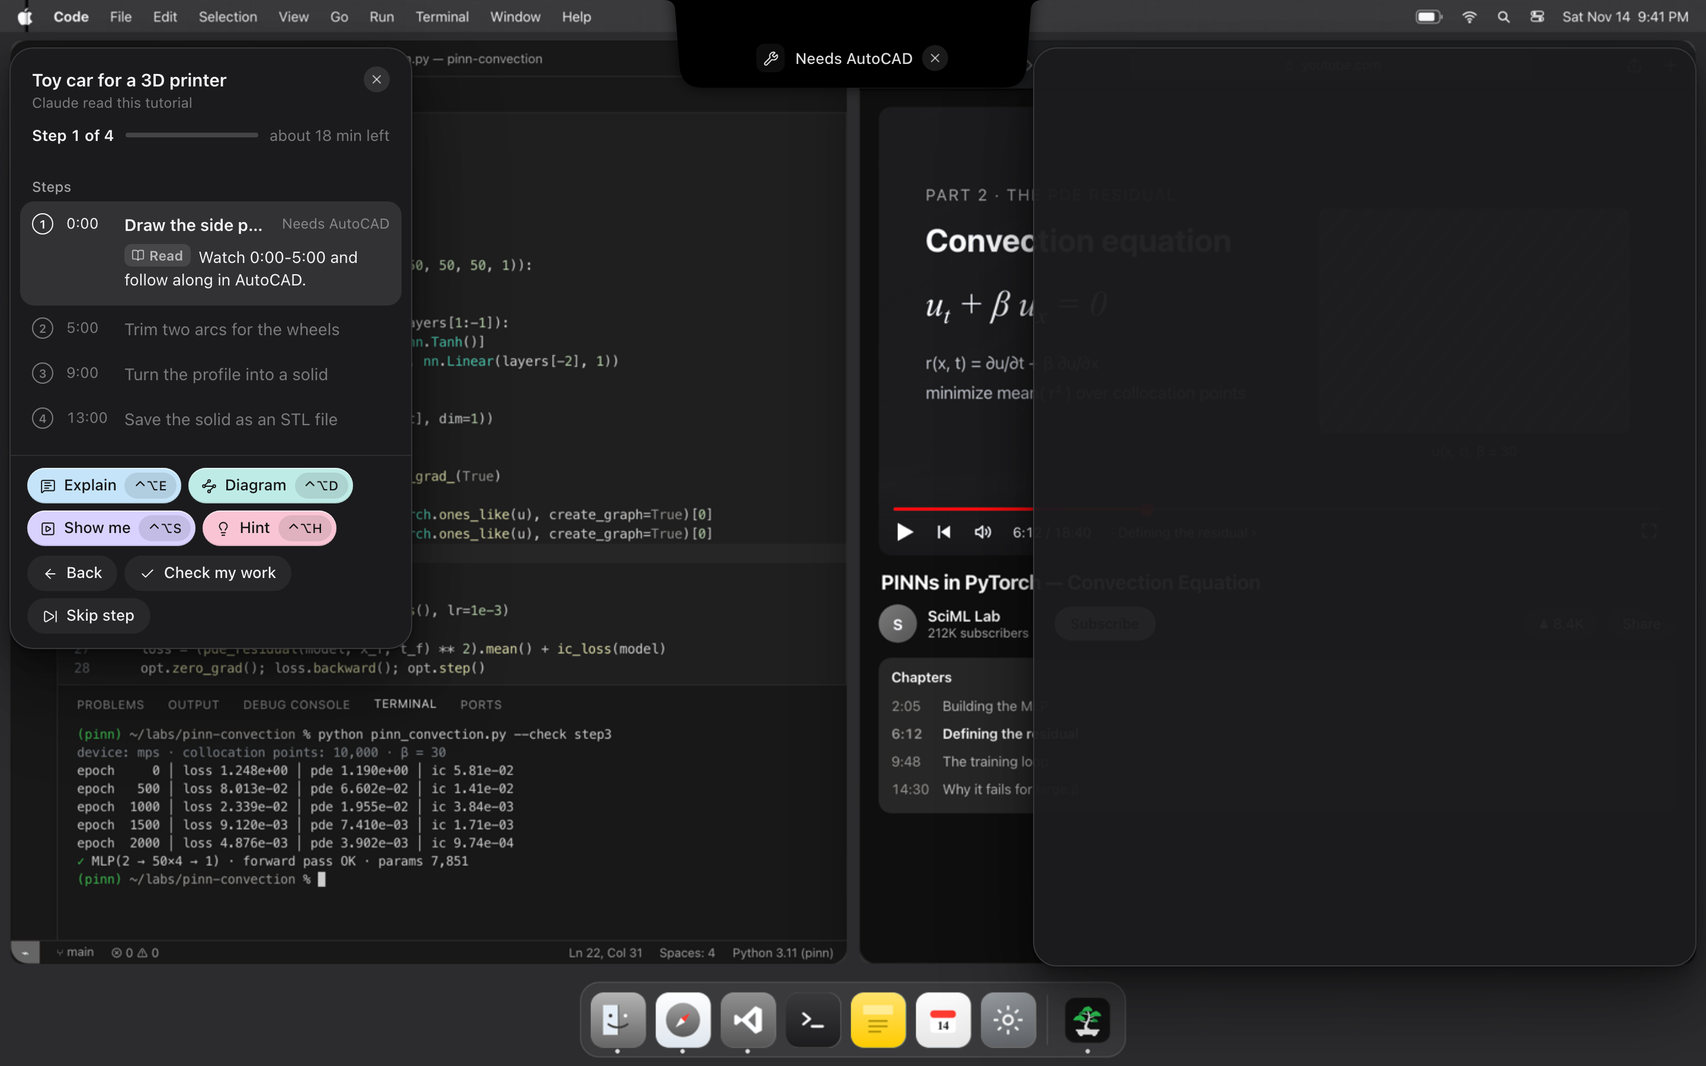
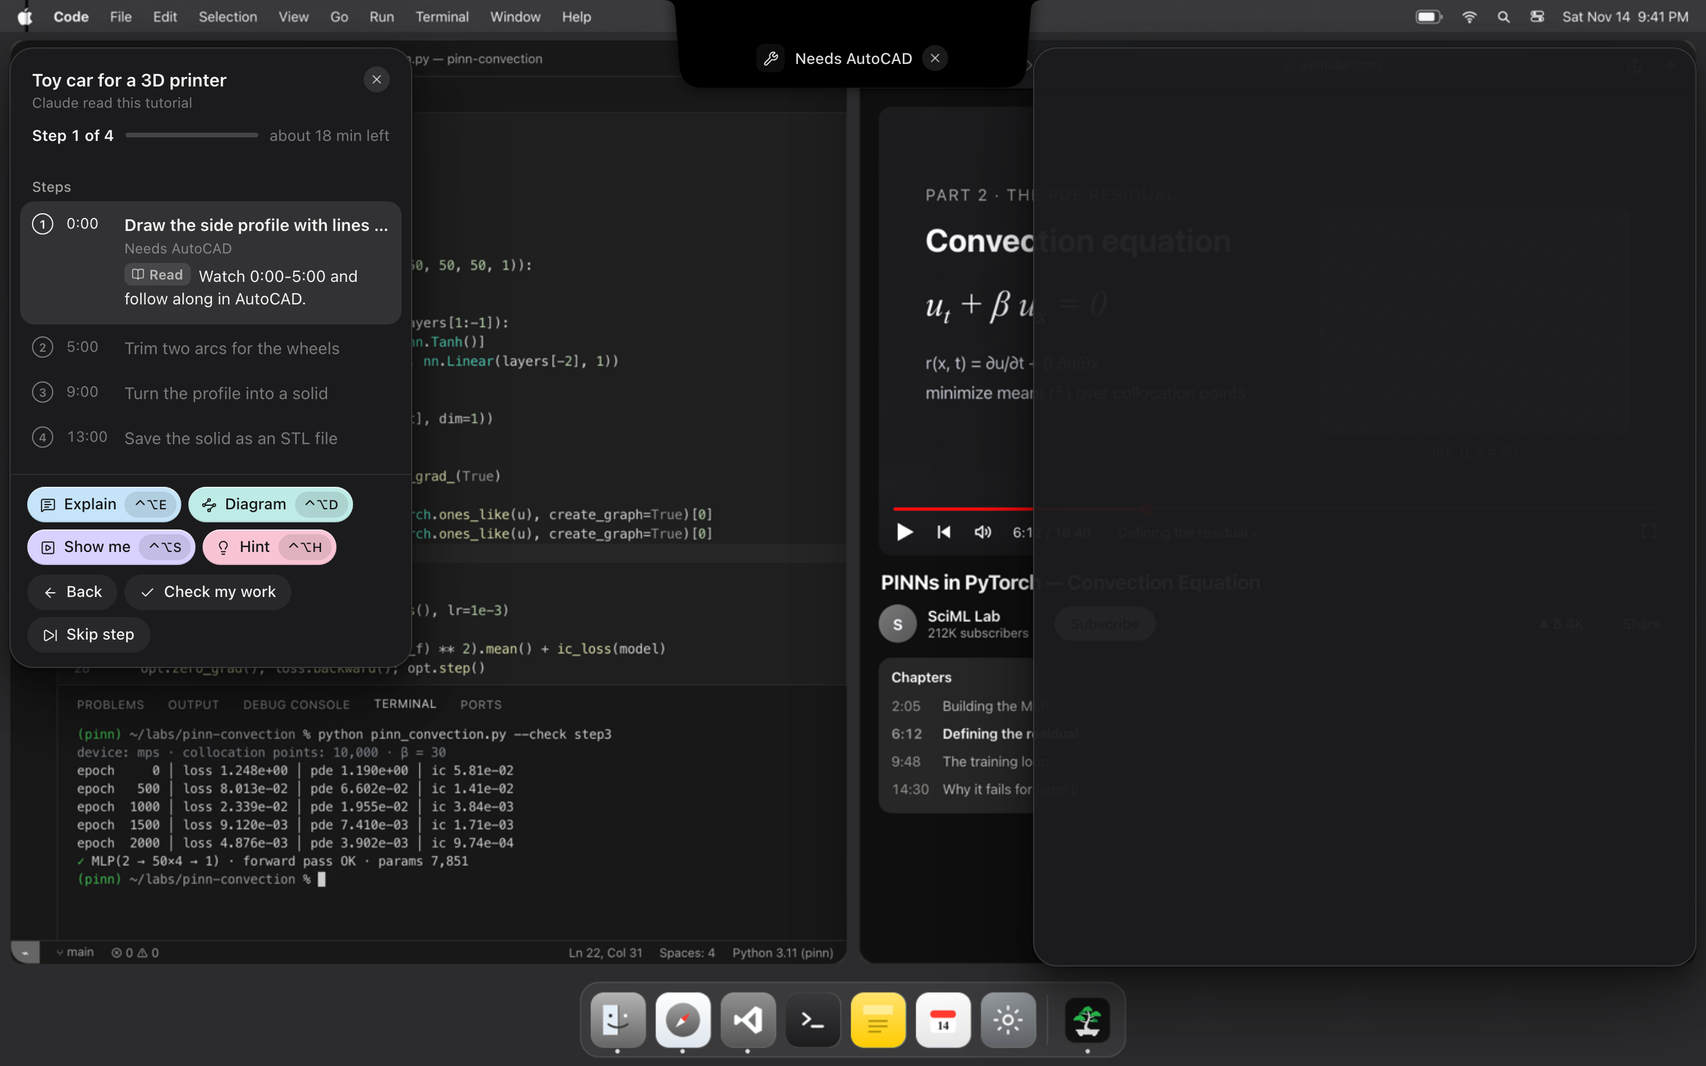
app: setup card draws Get AutoCAD / Try FreeCAD / I have it from the row's own actions (fix round 1)
On today's engine (integration/live, APP_RENDERS_APP_ACTIONS False) card.actions is only [install, skip_setup], so
the plan fell back to a link: the white "Get AutoCAD" went to main's open:external, whose setup list has no
autodesk.com, and the first click opened nothing ("Copy link"). The AutoCAD row itself already sends
[have_it, get_it, alternative, skip] and the engine handles all three (setup_apps.act; get_it opens the vendor page on
the engine's own allowlist).

- setupPlan: a paid app's buttons read the card's actions or the licensed row's own; Get AutoCAD (white), Try FreeCAD
  and I have it (quiet) are engine actions. The link path stays only for a row with no actions (older engines).
  Choosing FreeCAD owns its offered row; once picked, its Install leads.
- setupHold.drawnOnCard reads the row's actions too, so the row draws no second Get.
- mock setup-calm-today matches apps.item_actions (autocad [have_it, get_it, alternative, skip], FreeCAD
  [install, have_it, skip]); tests updated, plus one that runs every plan link through isSetupDownloadUrl.
- drawer: "Needs AutoCAD" moves to its own quiet line under the current step, so the title is no longer cut for it.
- Player: the StagePlayer doc comment is back above StagePlayer.
- cards.md: engine requests E1-E3 (flip APP_RENDERS_APP_ACTIONS and APP_HONOURS_HOLD_VIDEO with this branch and
  #252); right-drawer placement (core request 7) still open.
- shots/setup-calm-*.png retaken headless (player=frame, no video).

Changed region(s): [[0.0, 0.1867, 0.2188, 0.6222], [0.1875, 0.6222, 0.2188, 0.6533]]

diff --git a/app/test/setupCalm.test.ts b/app/test/setupCalm.test.ts
@@ -10,7 +10,8 @@ import { join } from 'node:path'
 import { test } from 'node:test'
 import type { Payload } from '../src/common/wire'
 import { needsLine, planSetup, setupBody, setupCardWidth, toolKind, SETUP_MIN_W } from '../src/renderer/src/features/cards/setupPlan'
-import { setupWaiting, waitingOnSetup } from '../src/renderer/src/features/cards/setupHold'
+import { drawnOnCard, setupWaiting, waitingOnSetup } from '../src/renderer/src/features/cards/setupHold'
+import { isSetupDownloadUrl } from '../src/main/safeOpen'
 
 type Card = Payload<'card'>
 
@@ -47,18 +48,52 @@ test('no Mac version: the free alternative leads, Get is not offered', () => {
   assert.deepEqual(planSetup(win).secondary, [])
 })
 
-test("today's engine: Get AutoCAD opens the vendor page from main's list, Install FreeCAD sits beside it", () => {
+test("today's engine: the AutoCAD row's own actions draw Get AutoCAD, Try FreeCAD and I have it", () => {
+  // integration/live with APP_RENDERS_APP_ACTIONS False: card.actions is [install, skip_setup], the row still offers
+  // [have_it, get_it, alternative, skip] (server/workspace/apps.py item_actions) and the engine handles all three.
   const c = fixture('setup-calm-today')
+  assert.deepEqual(c.actions, ['install', 'skip_setup'])
   const p = planSetup(c)
+  assert.deepEqual(p.primary, { do: 'card', action: 'get_it', tool: 'autocad', label: 'Get AutoCAD' })
+  assert.deepEqual(p.secondary, [
+    { do: 'card', action: 'alternative', tool: 'autocad', label: 'Try FreeCAD' },
+    { do: 'card', action: 'have_it', tool: 'autocad', label: 'I have it' }
+  ])
+  // the AutoCAD row draws no second Get, FreeCAD's offered row no second Install
+  assert.deepEqual(p.owns.sort(), ['autocad', 'freecad'])
+  assert.equal(drawnOnCard(c.actions, c.setup!.items.find((x) => x.tool === 'autocad')!), true)
+  // FreeCAD is the other choice, not a second need
+  assert.equal(needsLine(c), 'Needs AutoCAD')
+  assert.equal(setupWaiting(c), false)
+  // once the learner picks FreeCAD (using), its row's Install leads
+  const picked: Card = { ...c, setup: { ...c.setup!, items: c.setup!.items.map((x) => (x.tool === 'autocad' ? { ...x, using: 'FreeCAD', actions: [] } : x)) } }
+  assert.deepEqual(planSetup(picked).primary, { do: 'install', tool: 'freecad', label: 'Install FreeCAD' })
+})
+
+// A smart-setup row always carries actions; a licensed row without them only comes from an engine older than both.
+// Main may refuse its page (Copy link then), which is still better than a card with nothing to press.
+test('an older engine row without actions still gets Get <app> as a link', () => {
+  const c = fixture('setup-calm-today')
+  const old: Card = { ...c, setup: { ...c.setup!, items: c.setup!.items.map(({ actions: _a, ...x }) => x) } }
+  const p = planSetup(old)
   assert.equal(p.primary?.do, 'link')
   assert.equal(p.primary?.label, 'Get AutoCAD')
   assert.deepEqual(p.secondary, [{ do: 'install', tool: 'freecad', label: 'Install FreeCAD' }])
-  assert.deepEqual(p.owns.sort(), ['autocad', 'freecad'])
-  // FreeCAD is the other choice, not a second need
-  assert.equal(needsLine(c), 'Needs AutoCAD')
-  // FreeCAD installing: its row says so, Get AutoCAD stays the primary
-  assert.deepEqual(planSetup(c, { freecad: { running: true } }).secondary, [])
-  assert.equal(setupWaiting(c), false)
+})
+
+test("every link a plan draws is one main's setup list opens (no primary main would refuse)", () => {
+  // Fix round 1: Get AutoCAD went to main's open:external, which has no autodesk.com: the first click opened nothing.
+  const states = [{}, { freecad: { running: true } }, { numpy: { ok: true } }]
+  for (const name of ['setup-calm', 'setup-calm-today', 'setup-calm-install', 'setup-calm-old']) {
+    const c = fixture(name)
+    for (const installs of states) {
+      const p = planSetup(c, installs)
+      for (const b of [p.primary, ...p.secondary]) {
+        if (b?.do !== 'link') continue
+        assert.equal(isSetupDownloadUrl(b.url), true, `${name}: ${b.label} -> ${b.url} is not on main's setup list`)
+      }
+    }
+  }
 })
 
 test("the old engine in Michael's screenshot: no editor talk, no Install now?, the video plays", () => {

diff --git a/app/src/renderer/src/features/cards/setupPlan.ts b/app/src/renderer/src/features/cards/setupPlan.ts
@@ -8,6 +8,8 @@
  *              Mac; the free alternative ("Try FreeCAD") is the quiet second button; Skip stays a quiet link
  *   web        a web app: "Open <app>"
  *   download   an older engine's download page: "Get <app>"
+ * A paid app's buttons are engine actions (have_it / get_it / alternative), read from the card's actions or the row's
+ * own, whichever the engine sent. Only a row with no actions at all (an older engine) falls back to a link.
  * The rest of the card (Download tutorial files, Open VS Code) keeps its own quiet buttons.
  *
  * Older engines: rows without setupKind / actions still work (a download row is "Get it", a pip row is "Install").
@@ -81,21 +83,31 @@ export function planSetup(c: Card, installs: Record<string, InstallState> = {}, 
   if (free.length === 1) return { primary: { do: 'install', tool: free[0].tool, label: `Install ${free[0].label}` }, secondary: [], owns: [free[0].tool] }
 
   // 2. A paid app: Get it (or I have it, when the scan saw it), the free alternative beside it.
+  // The engine handles have_it / get_it / alternative from either place: the card's actions (an engine with
+  // APP_RENDERS_APP_ACTIONS) or the row's own actions (today's engine: card.actions is only [install, skip_setup], the
+  // AutoCAD row still offers [have_it, get_it, alternative, skip]). get_it opens the vendor page on the engine's own
+  // allowlist; main's setup list has no vendor pages, so a link button there would open nothing.
   if (lic) {
     const owns = [lic.tool]
-    const drawn = actions.includes('get_it') || actions.includes('have_it')
-    const get: SetupBtn | undefined = drawn
-      ? actions.includes('get_it') ? { do: 'card', action: 'get_it', tool: lic.tool, label: labels.get_it ?? `Get ${lic.label}` } : undefined
-      : (lic.vendorUrl ?? lic.install.url) ? { do: 'link', tool: lic.tool, url: lic.install.url ?? lic.vendorUrl, label: `Get ${lic.label}` } : undefined
-    const have: SetupBtn | undefined = actions.includes('have_it') ? { do: 'card', action: 'have_it', tool: lic.tool, label: labels.have_it ?? 'I have it' } : undefined
+    const can = (a: 'have_it' | 'get_it' | 'alternative'): boolean => actions.includes(a) || !!lic.actions?.includes(a)
+    // An older engine (no actions on the row or the card): the row's download page through main's list.
+    const oldRow = lic.actions === undefined && !actions.includes('get_it') && !actions.includes('have_it')
+    const pageUrl = lic.install.url ?? lic.vendorUrl
+    const get: SetupBtn | undefined = can('get_it')
+      ? { do: 'card', action: 'get_it', tool: lic.tool, label: labels.get_it ?? `Get ${lic.label}` }
+      : oldRow && pageUrl
+        ? { do: 'link', tool: lic.tool, url: pageUrl, label: `Get ${lic.label}` }
+        : undefined
+    const have: SetupBtn | undefined = can('have_it') ? { do: 'card', action: 'have_it', tool: lic.tool, label: labels.have_it ?? 'I have it' } : undefined
+    const altRow = installable.find(isAlt)
     let alt: SetupBtn | undefined
-    if (lic.alternative && actions.includes('alternative')) alt = { do: 'card', action: 'alternative', tool: lic.tool, label: labels.alternative ?? `Try ${lic.alternative.name}` }
-    else {
-      const row = installable.find(isAlt)
-      if (row && !installs[row.tool]?.running) {
-        alt = { do: 'install', tool: row.tool, label: `Install ${row.label}` }
-        owns.push(row.tool)
-      }
+    if (lic.alternative && can('alternative')) {
+      // The engine switches the lesson to the alternative; its offered row (today's engine) then gets Install.
+      alt = { do: 'card', action: 'alternative', tool: lic.tool, label: labels.alternative ?? `Try ${lic.alternative.name}` }
+      if (altRow) owns.push(altRow.tool)
+    } else if (altRow && !installs[altRow.tool]?.running) {
+      alt = { do: 'install', tool: altRow.tool, label: `Install ${altRow.label}` }
+      owns.push(altRow.tool)
     }
     // No Mac version: getting it is no use here, the alternative leads.
     if (lic.noMac && alt) return { primary: alt, secondary: [], owns }

diff --git a/app/src/renderer/src/features/drawer/Drawer.tsx b/app/src/renderer/src/features/drawer/Drawer.tsx
@@ -617,7 +617,7 @@ function StepRow({
   instructions?: string
   /** The option row (Explain / Diagram / Show me / Hint + Check my work): the current step of a "Just teach me" lesson. */
   actions?: boolean
-  /** A quiet status at the row's end ("Needs AutoCAD"): faint, no hue. */
+  /** A quiet status under the step's title ("Needs AutoCAD"): faint, no hue. */
   note?: string
   enterDelay?: number
 }): ReactNode {
@@ -679,13 +679,21 @@ function StepRow({
         >
           {line ?? step.title}
         </span>
-        {/* Mockup 01: the current step's "about 4 min" at the row's end; a status note ("Needs AutoCAD") wins. */}
-        {(note || (current && estimate)) && (
-          <span data-part={note ? 'drawer-step-note' : 'drawer-step-est'} className="shrink-0 text-[12px]" style={{ color: glass.faint }}>
-            {note ?? estimate}
+        {/* Mockup 01: the current step's "about 4 min" at the row's end. A status note ("Needs AutoCAD") still wins:
+            it sits on its own line below and the title takes the whole row. */}
+        {current && estimate && !note && (
+          <span data-part="drawer-step-est" className="shrink-0 text-[12px]" style={{ color: glass.faint }}>
+            {estimate}
           </span>
         )}
       </button>
+      {/* A status note ("Needs AutoCAD") gets its own quiet line under the title, so the title is never cut for it
+          (fix round 1: "Draw the side p..." at 1440). */}
+      {note && (
+        <div data-part="drawer-step-note" className="truncate pb-[6px] text-[12px] leading-[16px]" style={{ paddingLeft: indent, paddingRight: ROW.padX, marginTop: -6, color: glass.faint }}>
+          {note}
+        </div>
+      )}
       {open && <StepDetail stepId={step.id} instructions={instructions} planKind={step.kind} indent={indent} padX={ROW.padX} />}
       {checks && checks.length > 0 && (
         <motion.div

diff --git a/app/src/renderer/src/features/cards/setupHold.ts b/app/src/renderer/src/features/cards/setupHold.ts
@@ -28,12 +28,16 @@ export const rowWaiting = (x: Row): boolean => x.needed && !x.ok && !x.haveIt &&
 /** A row the learner settled: "I have it" (haveIt) or a free alternative instead (using). */
 export const rowSettled = (x: Row): boolean => !!x.haveIt || !!x.using
 
+/** The paid-app actions the setup card draws itself (setupPlan.ts). */
+const APP_ACTIONS: readonly string[] = ['have_it', 'get_it', 'alternative']
+
 /**
- * A licensed app's row (AutoCAD) on a card that draws I have it / Get it / the free alternative itself: the row keeps
- * no button of its own (its install.method "download" would be a second Get it).
+ * A licensed app's row (AutoCAD) whose I have it / Get it / free alternative the card draws itself: the row keeps no
+ * button of its own (its install.method "download" would be a second Get it). The engine sends those actions on the
+ * card (APP_RENDERS_APP_ACTIONS) or only on the row (today's engine): either counts.
  */
 export const drawnOnCard = (actions: readonly string[] | undefined, x: Row): boolean =>
-  x.setupKind === 'licensed_app' && !!actions?.includes('get_it')
+  x.setupKind === 'licensed_app' && (!!actions?.includes('get_it') || !!x.actions?.some((a) => APP_ACTIONS.includes(a)))
 
 /** The drawer's current step reads "Waiting on setup": a setup card that holds the video and has a row still waiting. */
 export function waitingOnSetup(c: Card | undefined): boolean {

diff --git a/app/test/setupHold.test.ts b/app/test/setupHold.test.ts
@@ -78,8 +78,10 @@ test('a row the learner settled never waits: I have it, or FreeCAD instead', () 
 
 test('the licensed row keeps no Get it of its own when the card draws Get AutoCAD', () => {
   assert.equal(drawnOnCard(autocadCard().actions, autocad()), true)
-  // today's engine (flag off): actions install / skip_setup, the row's own Get it opens the vendor page
-  assert.equal(drawnOnCard(['install', 'skip_setup'], autocad()), false)
+  // today's engine (flag off): card actions install / skip_setup, but the row's own actions still draw on the card
+  assert.equal(drawnOnCard(['install', 'skip_setup'], autocad()), true)
+  // an older engine's row with no actions keeps its own button
+  assert.equal(drawnOnCard(['install', 'skip_setup'], autocad({ actions: undefined })), false)
   assert.equal(drawnOnCard(autocadCard().actions, vscode), false)
 })
 

diff --git a/app/src/renderer/src/features/player/Player.tsx b/app/src/renderer/src/features/player/Player.tsx
@@ -677,7 +677,6 @@ export function PlayerWindow(): ReactNode {
   return <PlayerPanel />
 }
 
-/** Browser stage only: the same panel at the dock rect, under the spotlight/cards like in Electron. */
 /**
  * Stage only, `?player=frame`: the panel's empty frame at the dock, no video. Screenshots of what sits beside the
  * player (the setup card, the drawer) without loading or playing anything.
@@ -694,6 +693,7 @@ function FrameOnly(): ReactNode {
   )
 }
 
+/** Browser stage only: the same panel at the dock rect, under the spotlight/cards like in Electron. */
 export function StagePlayer({ layout }: { layout: Layout }): ReactNode {
   // No player for a "Just teach me" lesson (lesson.mode "lesson": no video at all).
   const hasLesson = useLesson((s) => !!s.lesson && s.lesson.mode !== 'lesson')

diff --git a/app/agents/cards.md b/app/agents/cards.md
@@ -1,16 +1,20 @@
 # cards
 
 **Calm setup (Nov 22, `michael/app-setup-calm`, builds on #252 `michael/app-setup-actions`):** Michael's AutoCAD video lesson said "set up first" in three places (card, drawer, player), offered only Skip, and talked about an editor for a no-code lesson. Now:
-- **One place says "set up first": the setup card.** The drawer reads as usual, with a quiet "Needs AutoCAD" at the current step's end (`setupPlan.needsLine`; a paid app's free alternative is a choice, not a second need). The player plays; when a step truly holds it (`setup.holdVideo` true) its scrim says "Waiting for NumPy, pandas" / "It plays once that is ready.", never "Set up first". An older engine (no `holdVideo`) no longer holds for a card whose only button is Skip (`setupHold.setupWaiting`).
-- **One white primary by tool kind** (`features/cards/setupPlan.ts`, pure): packages = "Install NumPy" or "Install all"; a paid app = "Get AutoCAD" (engine `get_it`, or main's setup list for today's engine's download row), "I have it" leads only when the scan saw the app (`installed` true, `ok` false); the free alternative ("Try FreeCAD", or today's engine's "Install FreeCAD" row) and "I have it" are quiet buttons on their own line above; Skip stays a faint link; `noMac` = the alternative leads. Web app = "Open Figma". Older download rows = "Get <app>". The plan's buttons replace the rows' own; other missing rows keep their small grey button. No pastel, no hue for "not yet".
+- **One place says "set up first": the setup card.** The drawer reads as usual, with a quiet "Needs AutoCAD" line under the current step's title, so the title is never cut for it (`setupPlan.needsLine`; a paid app's free alternative is a choice, not a second need). The player plays; when a step truly holds it (`setup.holdVideo` true) its scrim says "Waiting for NumPy, pandas" / "It plays once that is ready.", never "Set up first". An older engine (no `holdVideo`) no longer holds for a card whose only button is Skip (`setupHold.setupWaiting`).
+- **One white primary by tool kind** (`features/cards/setupPlan.ts`, pure): packages = "Install NumPy" or "Install all"; a paid app = "Get AutoCAD" (engine `get_it`: the engine opens the vendor page on its own allowlist), "I have it" leads only when the scan saw the app (`installed` true, `ok` false); the free alternative ("Try FreeCAD", engine `alternative`) and "I have it" are quiet buttons on their own line above. The plan reads these actions from the card's `actions` or the licensed row's own `actions`, so today's engine (flags off, card actions only `[install, skip_setup]`, row actions `[have_it, get_it, alternative, skip]`) gets the same three buttons. Only a licensed row with no `actions` at all (an engine older than smart setup) falls back to a link through main's setup list (`install` of the alternative's own row beside it); main has no vendor pages on that list, so a plan link is test-checked against `isSetupDownloadUrl` (fix round 1: Get AutoCAD opened nothing); Skip stays a faint link; `noMac` = the alternative leads. Web app = "Open Figma". Older download rows = "Get <app>". The plan's buttons replace the rows' own; other missing rows keep their small grey button. No pastel, no hue for "not yet".
 - **Body:** `setupBody` drops an older engine's "No editor needed..." sentence on a no-editor lesson and "Install now?" when nothing on the card can install; three lines max (More opens the rest).
 - **Placement:** in a video lesson the setup card's width fits between the open drawer and the docked player (`setupCardWidth`). Attached to the notch (the island never steps aside there) it grows evenly from the notch centre: 272 at 1440, 286 at 1512, 330 at 1728, min 260. Below the menu bar it uses the whole room (core's offDock slides it clear of the player).
 - **Dismiss:** ✕ on a setup card with something still missing folds it to a pill-sized chip ("Needs AutoCAD", store `setupFold`); a tap grows it back; ✕ on the chip closes it.
 - Stage (no video: `&player=frame` draws the player's empty frame, nothing loads): `?scenario=setup-calm&size=1440x900&clean&player=frame&drawer=open` (smart setup, app buttons on), `setup-calm-today` (today's engine, flags off), `setup-calm-old` (Michael's screenshot engine), `setup-calm-install` (packages, holds). Shots: `shots/setup-calm-{autocad,folded,today,old-engine,install,narrow}.png` (headless_shell over CDP, external hosts blocked).
 - Tests: `test/setupCalm.test.ts` (plans, needs line, body, widths, copy), `test/setupHold.test.ts` updated.
-- **Engine:** the "type along in your editor" step text is fixed engine-side (integration/live `server/lesson/app_lesson.py`, builder.py). Once this and #252 land, flip `APP_RENDERS_APP_ACTIONS` and `APP_HONOURS_HOLD_VIDEO` in `server/workspace/setup.py`.
+- **Engine:** the "type along in your editor" step text is fixed engine-side (integration/live `server/lesson/app_lesson.py`, builder.py).
+- **Engine requests (calm setup), for the same merge window as this branch and #252:**
+  E1. *Flip `APP_RENDERS_APP_ACTIONS = True` in `server/workspace/setup.py`.* Then the card sends `have_it`, `get_it`, `alternative` in `card.actions` with their `actionLabels`, the body becomes "Have AutoCAD already? Or try FreeCAD, free." (no "install FreeCAD" row talk), and `offer_alternatives` stops adding FreeCAD's own row until it is chosen. Without it the app still draws the three buttons from the row's actions (fix round 1), but the body keeps today's "AutoCAD is paid. Get it, install FreeCAD free, or skip."
+  E2. *Flip `APP_HONOURS_HOLD_VIDEO = True` in the same file, the same merge.* The app plays the video under a setup card unless `setup.holdVideo` is true (`setupHold.setupWaiting`), so the card may promise "Watch while you decide." With both flags on, the card in `shots/setup-calm-autocad.png` is what Michael sees; with them off he sees `shots/setup-calm-today.png`.
+  E3. *Update the tests that pin the flags off* (`server/workspace/tests/test_apps.py`, `server/orchestrator/tests/test_setup_apps.py` monkeypatch them on today; any test asserting the flags-off body or actions moves with the flip) and the "Smart setup" section of `server/workspace/README.md`.
 - **Core requests (calm setup):**
-  7. *Right-side drawer:* `islandPlace.offDock` clears only the player dock. With the drawer on the right (left of the player) a card below the menu bar can still sit over the drawer. Suggest the drawer `reserveRect('drawer', ...)` and offDock clear reserved rects in the card's row too. The notch-attached case is already covered by the width.
+  7. *Right-side drawer:* `islandPlace.offDock` clears only the player dock. With the drawer on the right (left of the player) a card below the menu bar can still sit over the drawer. Suggest the drawer `reserveRect('drawer', ...)` and offDock clear reserved rects in the card's row too. The notch-attached case is already covered by the width. Still open: until this lands, "never covers the drawer" holds for the left drawer and the notch case only.
   8. *Notch island and wide cards:* every 420-wide card attached to the notch covers the docked player's left edge on 13 to 14 inch Macs (centre 756, player from 915 at 1512). The setup card narrows itself; other cards may want the same rule in core (a max card width from the notch centre to the dock).
 
 **v2 (A2 `michael/app-pill-cards`, port 5187):** pass 1 done, typecheck green, checked in the stage (headless). Draft PR #172. The full v2 notes, Core requests and shots for pill and cards are in `pill.md` under "v2 (A2)". The cards part:
